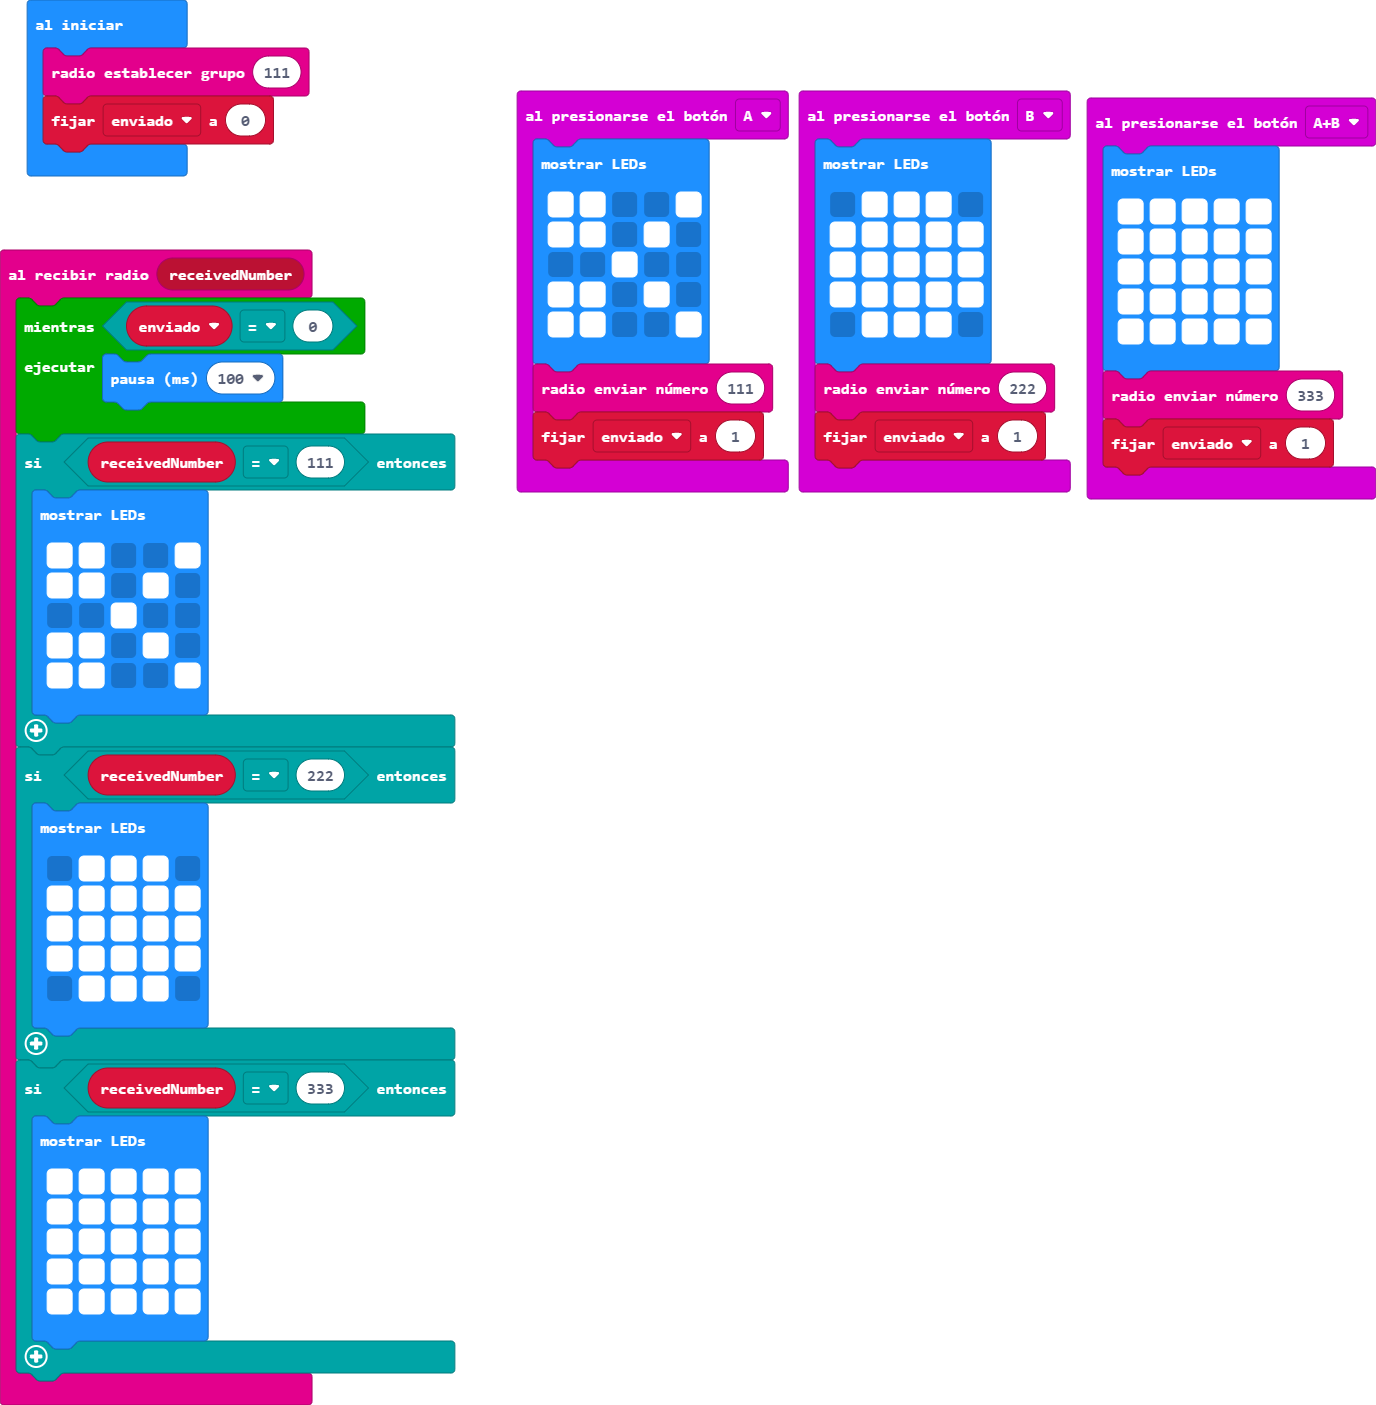
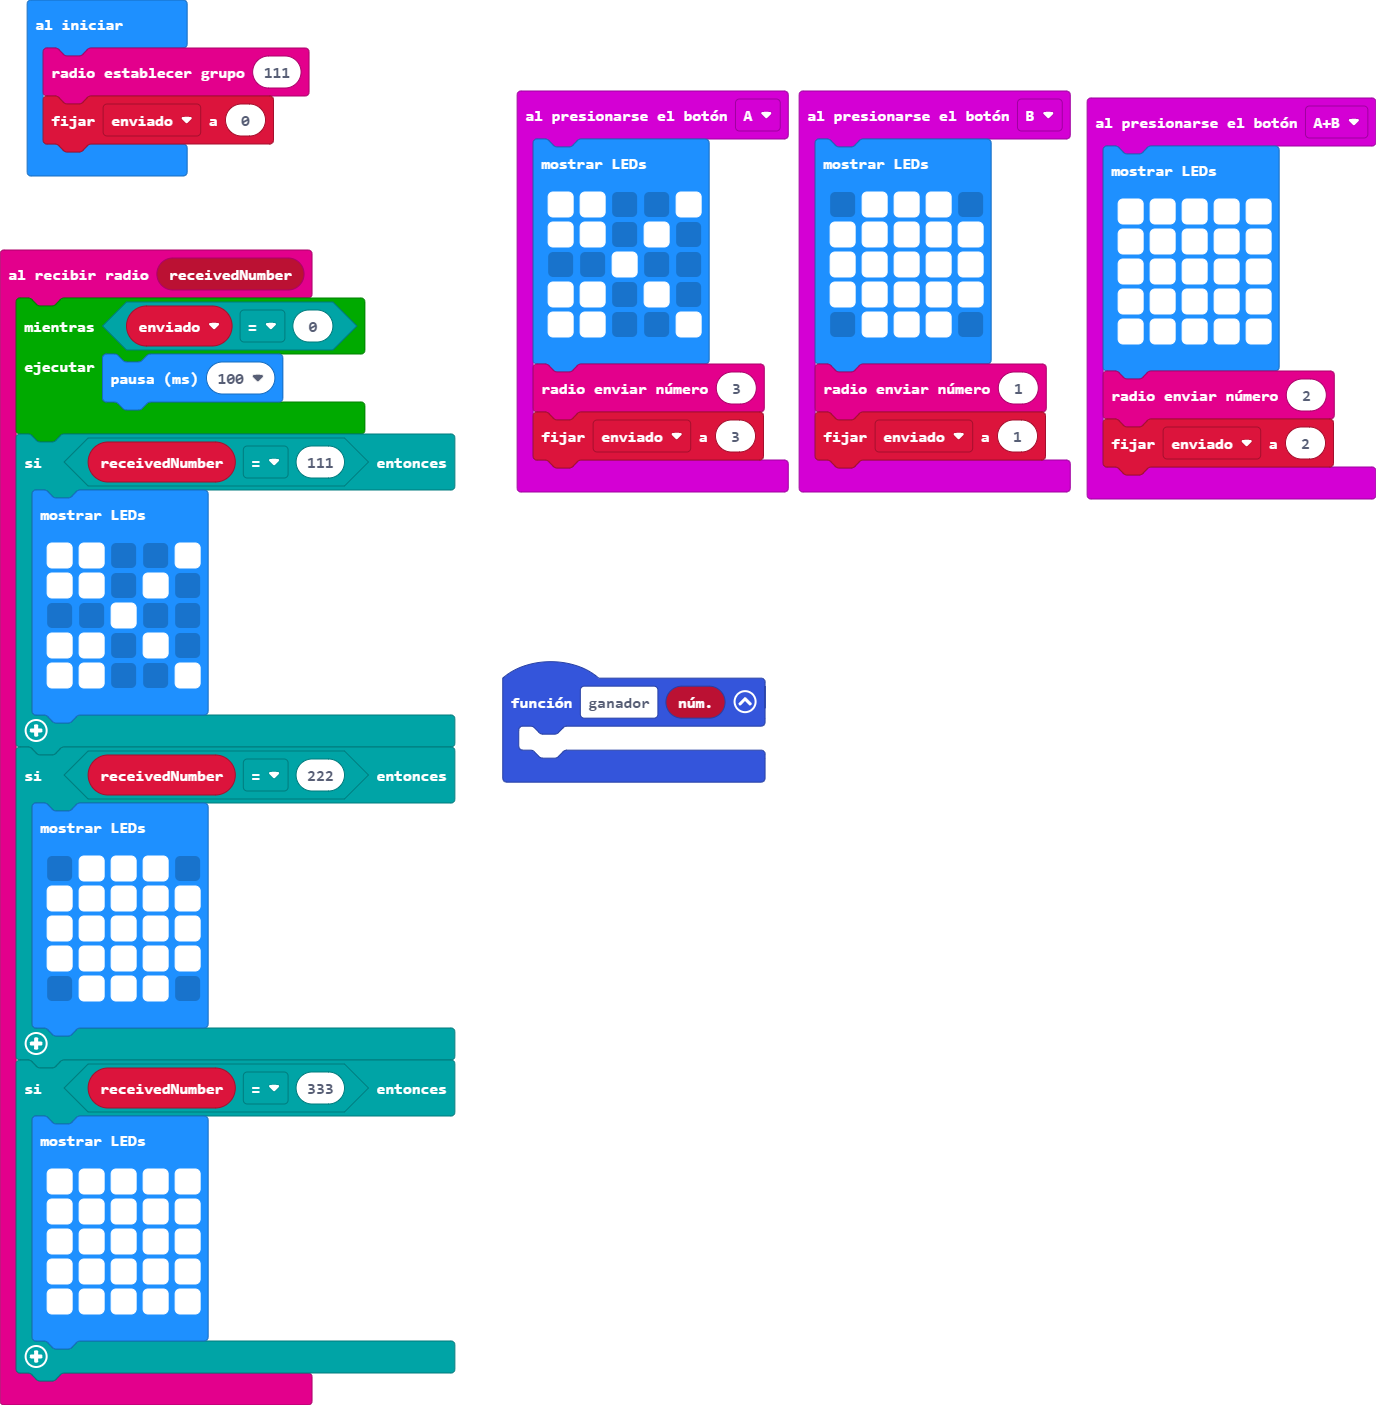
Actualizar main.blocks, main.ts

diff --git a/main.ts b/main.ts
@@ -30,6 +30,9 @@ radio.onReceivedNumber(function (receivedNumber) {
             `)
     }
 })
+function ganador (núm: number) {
+	
+}
 input.onButtonPressed(Button.A, function () {
     basic.showLeds(`
         # # . . #
@@ -38,8 +41,8 @@ input.onButtonPressed(Button.A, function () {
         # # . # .
         # # . . #
         `)
-    radio.sendNumber(111)
-    enviado = 1
+    radio.sendNumber(3)
+    enviado = 3
 })
 input.onButtonPressed(Button.AB, function () {
     basic.showLeds(`
@@ -49,8 +52,8 @@ input.onButtonPressed(Button.AB, function () {
         # # # # #
         # # # # #
         `)
-    radio.sendNumber(333)
-    enviado = 1
+    radio.sendNumber(2)
+    enviado = 2
 })
 input.onButtonPressed(Button.B, function () {
     basic.showLeds(`
@@ -60,7 +63,7 @@ input.onButtonPressed(Button.B, function () {
         # # # # #
         . # # # .
         `)
-    radio.sendNumber(222)
+    radio.sendNumber(1)
     enviado = 1
 })
 let enviado = 0
